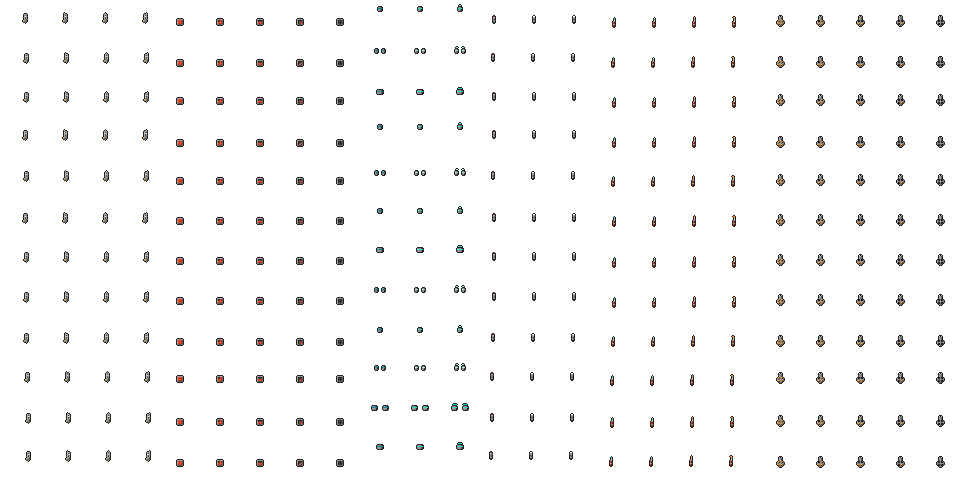
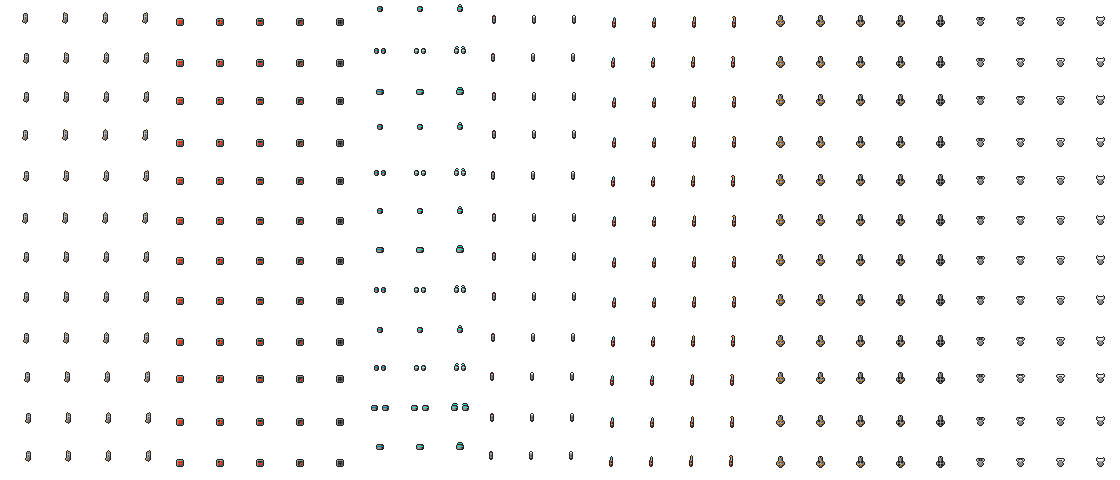
The sonic hammer's crate, symbol and dish module (BB-37)
The crate's row 13 and its symbol - a speaker's cone and two arcs of sound,
in a sky-blue ink - from gen_crates.py, and the turret module from the
Vanguard tankdesign line: an acoustic dish on the roof hardpoint in four
cells (idle, two wind-up cells, the blast), with its anchor
SONIC_MUZZLE in src/tank_art.rs. The tank sheets export unchanged.

diff --git a/tools/spritegen/tankdesign/export.py b/tools/spritegen/tankdesign/export.py
@@ -9,7 +9,7 @@ Writes, under the repo (docs/SPRITESHEET_SPEC.md has the layout):
   static/scifi_tanks_sheet.png   the paint: 33 columns x 60 rows of 40 px cells,
                                  five team blocks of the twelve chassis
   static/scifi_tanks_glow.png    the light layer, the same layout
-  static/tank_modules.png        the weapon modules: 24 columns x 12 rows
+  static/tank_modules.png        the weapon modules: 28 columns x 12 rows
   static/tank_modules_glow.png   their light layer
   src/tank_art.rs                the anchors the engine reads (lamps, muzzles,
                                  missile tubes), generated - never edited by hand
@@ -104,7 +104,7 @@ def main(argv):
         # as its own function drew it.
         hp = r.hardpoints
         mm = {}
-        for w in ('minigun', 'laser', 'flame', 'missiles', 'grenade'):
+        for w in ('minigun', 'laser', 'flame', 'missiles', 'grenade', 'sonic'):
             b = Builder(Ctx(ch, 'enemy'), 'module', 0, 0)
             design.module(b, w, 0, hp)
             mm[w] = b.meta
@@ -113,7 +113,7 @@ def main(argv):
         muzzles = [tuple(m) for m in r.turret_meta.get('muzzles', [])]
         art.append(dict(chassis=ch, codename=design.codename, heads=heads, spots=spots, muzzles=muzzles,
                         minigun=mm['minigun']['muzzle'], laser=mm['laser']['muzzle'], flame=mm['flame']['muzzle'],
-                        grenade=mm['grenade']['muzzle'],
+                        grenade=mm['grenade']['muzzle'], sonic=mm['sonic']['muzzle'],
                         tubes=mm['missiles']['tubes']))
         print('exported', ch, design.codename)
     static = os.path.join(repo, 'static')
@@ -160,7 +160,8 @@ def write_rust(path, line_key, art):
     for key, doc in (('minigun', 'The minigun module\'s muzzle, where its bullets leave (turret frame).'),
                      ('laser', 'The laser module\'s lens, where its beam starts (turret frame).'),
                      ('flame', 'The flamethrower module\'s nozzle, where its jet starts (turret frame).'),
-                     ('grenade', 'The grenade launcher module\'s barrel mouth, where its grenades leave (turret frame).')):
+                     ('grenade', 'The grenade launcher module\'s barrel mouth, where its grenades leave (turret frame).'),
+                     ('sonic', 'The sonic hammer module\'s dish, where its wind-up is drawn (turret frame).')):
         L.append('/// %s' % doc)
         L.append('pub const %s_MUZZLE: [(f32, f32); 12] = [' % key.upper())
         for a in art:

diff --git a/tools/spritegen/gen_crates.py b/tools/spritegen/gen_crates.py
@@ -13,18 +13,18 @@ are the Puny palette; the symbols are the loud, off-palette inks of
 sheets alone - the pickups' old exemption, kept for the one part that has
 to be spotted at a glance.
 
-crates_sheet.png, 7 columns x 13 rows of 40 px:
+crates_sheet.png, 7 columns x 14 rows of 40 px:
 
     row = PickupKind in declaration order (health, ammo, laser, minigun,
           plasma, missiles, speedup, shield, flamethrower, frog_health,
-          tower_pack, heat_shield, grenades)
+          tower_pack, heat_shield, grenades, sonic_hammer)
     col 0    the crate
     col 1-4  a glint sweeping the lid from top left to bottom right, a band
              of design pixels one ramp step lighter (the idle)
     col 5    damaged: a split plank, a cracked batten, paint chipped
     col 6    charred: what a fire leaves before the crate breaks
 
-pickup_glyphs.png, 1 column x 13 rows of 24 px, the same row order: the
+pickup_glyphs.png, 1 column x 14 rows of 24 px, the same row order: the
 10 x 10 symbol on its own - its ink, lit along the top, shaded along the bottom,
 with the outline - for what rises out of an opened crate, a spilled one,
 the HUD's weapon queue and the builder's brushes.
@@ -52,7 +52,7 @@ TOKEN = SIDE + 2    # design pixels per symbol cell side (the symbol and its out
 
 # PickupKind's declaration order: the sheets' row order.
 KINDS = ['health', 'ammo', 'laser', 'minigun', 'plasma', 'missiles', 'speedup', 'shield', 'flamethrower',
-         'frog_health', 'tower_pack', 'heat_shield', 'grenades']
+         'frog_health', 'tower_pack', 'heat_shield', 'grenades', 'sonic_hammer']
 
 # The symbols, 10 x 10 design pixels each.
 GLYPHS = {
@@ -201,6 +201,20 @@ GLYPHS = {
         '.ooo..ooo.',
         '.XXX..XXX.',
         '..........',
+    ],
+    # A speaker's cone on the left and two arcs of sound off it, the arcs
+    # (`o`) in the ink's light.
+    'sonic_hammer': [
+        '....X.....',
+        '...XX..o..',
+        '..XXX...o.',
+        'XXXXX.o..o',
+        'XXXXX.o..o',
+        'XXXXX.o..o',
+        'XXXXX.o..o',
+        '..XXX...o.',
+        '...XX..o..',
+        '....X.....',
     ],
     'heat_shield': [
         'XXXXXXXXXX',

diff --git a/tools/spritegen/tankdesign/lines/vanguard.py b/tools/spritegen/tankdesign/lines/vanguard.py
@@ -313,6 +313,38 @@ def grenade(d, b, st, hp):
             b.part(px, DARK, 'flat', 5.5, step=-1, name='gl_chamber')
 
 
+@LINE.module_fn('sonic')
+def sonic(d, b, st, hp):
+    """A sonic hammer on the roof (docs/sonic-hammer.md): a long-range
+    acoustic dish - a round gunmetal mount, a short steel stem and a shallow
+    dish across its front whose horns curve forward a pixel, its face a row
+    of transducer dots. `st` 0 at rest, the face dark; 1 and 2 the wind-up,
+    the inner and then the outer dots lit pale; 3 a blast, the whole face
+    lit and the horns flexed forward. It shares the missiles' hardpoint
+    unless the design gives it its own - a tank carries one special weapon
+    at a time."""
+    hx, hy = hp.get('sonic', hp['missiles'])
+    b.meta['muzzle'] = (hx + 0.5, hy - 4.0)
+    b.part(chamfer(hx - 2, hy - 1, hx + 2, hy + 2, tl=1, tr=1, br=1, bl=1), GUNMETAL, 'plate', 5, step=0,
+           corner=False, name='sd_mount')
+    b.part({(hx, hy - 2)}, STEEL, 'flat', 5.2, step=1, name='sd_stem')
+    b.part(rect(hx - 2, hy - 2, hx + 2, hy - 2) - {(hx, hy - 2)}, GUNMETAL, 'flat', 5.3, step=1, name='sd_bowl')
+    horns = {(hx - 3, hy - 3), (hx + 3, hy - 3), (hx - 3, hy - 4), (hx + 3, hy - 4)}
+    if st == 3:
+        horns |= {(hx - 3, hy - 5), (hx + 3, hy - 5)}
+    b.part(horns, STEEL, 'flat', 5.4, step=2, name='sd_horns')
+    b.part(rect(hx - 2, hy - 4, hx + 2, hy - 3), DARK, 'grille', 5.5, step=1, pattern=dict(period=2, dir='v'),
+           name='sd_face')
+    inner = rect(hx - 1, hy - 3, hx + 1, hy - 3)
+    outer = rect(hx - 2, hy - 4, hx + 2, hy - 4) | {(hx - 2, hy - 3), (hx + 2, hy - 3)}
+    if st == 1:
+        b.lamp(inner, 'white', z=5.7, name='sd_inner')
+    elif st == 2:
+        b.lamp(outer, 'white', z=5.7, name='sd_outer')
+    elif st == 3:
+        b.lamp(inner | outer, 'white', z=5.7, name='sd_blast')
+
+
 # ---------------------------------------------------------------------------
 # Scout - fast recon. Silhouette: an arrowhead nose ahead of short narrow
 # runs, a small round turret with the optic pod bulging off its left cheek

diff --git a/src/tank_art.rs b/src/tank_art.rs
@@ -121,6 +121,22 @@ pub const GRENADE_MUZZLE: [(f32, f32); 12] = [
     (0.5, -3.0), // leviathan
 ];
 
+/// The sonic hammer module's dish, where its wind-up is drawn (turret frame).
+pub const SONIC_MUZZLE: [(f32, f32); 12] = [
+    (0.5, -2.0), // scout
+    (0.5, -1.0), // assault
+    (0.5, -3.0), // breaker
+    (0.5, -1.0), // longbow
+    (0.5, -3.0), // flak
+    (0.5, -3.0), // wraith
+    (0.5, -3.0), // warden
+    (0.5, -3.0), // ravager
+    (0.5, -2.0), // glacier
+    (0.5, -5.0), // obelisk
+    (0.5, -2.0), // titan
+    (0.5, -1.0), // leviathan
+];
+
 /// The missile launcher's four tube mouths, in firing order (turret frame).
 pub const MISSILE_TUBES: [[(f32, f32); 4]; 12] = [
     [(-1.0, 1.0), (1.0, 1.0), (-1.0, 3.0), (1.0, 3.0)], // scout

diff --git a/tools/punypalette.py b/tools/punypalette.py
@@ -234,6 +234,10 @@ PICKUP_INK = {
     # the shield's lavender and the laser's pink); the light is the lamp
     # each grenade flashes.
     'grenades': ((0x8C, 0x2C, 0xB0), (0xD6, 0x56, 0xF5), (0xF4, 0xB6, 0xFF)),
+    # The sonic hammer (docs/sonic-hammer.md): sky blue, the hue the inks
+    # above leave free between the plasma's teal and the tower pack's
+    # periwinkle; the light is the arcs of sound off its speaker.
+    'sonic_hammer': ((0x1E, 0x7F, 0xB8), (0x46, 0xC3, 0xF2), (0xA8, 0xE6, 0xFF)),
 }
 # The rainbow shield's symbol, swept corner to corner like the old icon.
 PICKUP_RAINBOW = ((0xE8, 0x4A, 0x3C), (0xFF, 0x8A, 0x2B), (0xFF, 0xD9, 0x3D), (0x7E, 0xDB, 0x5A),

diff --git a/tools/spritegen/tankdesign/render.py b/tools/spritegen/tankdesign/render.py
@@ -51,9 +51,10 @@ C_TURRET = 20
 C_BROKEN = 32
 N_COLS = 33
 MODULE_COLS = sum(WEAPON_STATES[w] for w in WEAPONS)
-# The modules a preview draws on one tank at once: the grenade launcher
-# shares the missiles' roof, and a tank carries one special at a time.
-SHOWN_TOGETHER = [w for w in WEAPONS if w != 'grenade']
+# The modules a preview draws on one tank at once: the grenade launcher and
+# the sonic hammer share the missiles' roof, and a tank carries one special
+# at a time.
+SHOWN_TOGETHER = [w for w in WEAPONS if w not in ('grenade', 'sonic')]
 
 
 def load_line(key):

diff --git a/tools/spritegen/tankdesign/kit.py b/tools/spritegen/tankdesign/kit.py
@@ -1066,5 +1066,5 @@ class Line:
         fn(design, b, state, hp)
 
 
-WEAPONS = ['minigun', 'missiles', 'plasma', 'laser', 'flame', 'grenade']
-WEAPON_STATES = {'minigun': 4, 'missiles': 5, 'plasma': 3, 'laser': 3, 'flame': 4, 'grenade': 5}
+WEAPONS = ['minigun', 'missiles', 'plasma', 'laser', 'flame', 'grenade', 'sonic']
+WEAPON_STATES = {'minigun': 4, 'missiles': 5, 'plasma': 3, 'laser': 3, 'flame': 4, 'grenade': 5, 'sonic': 4}
